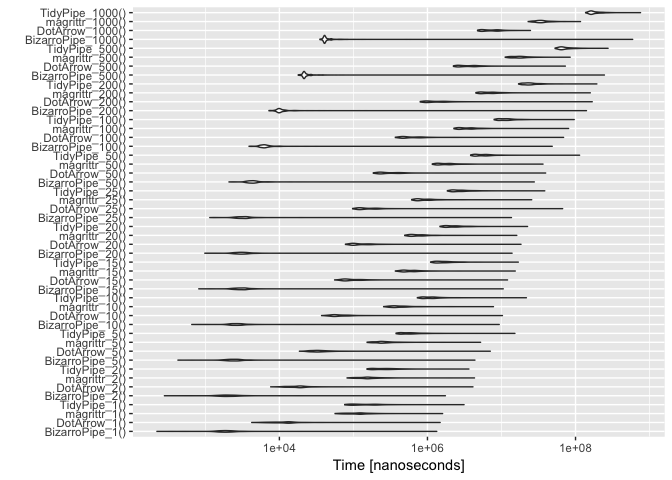
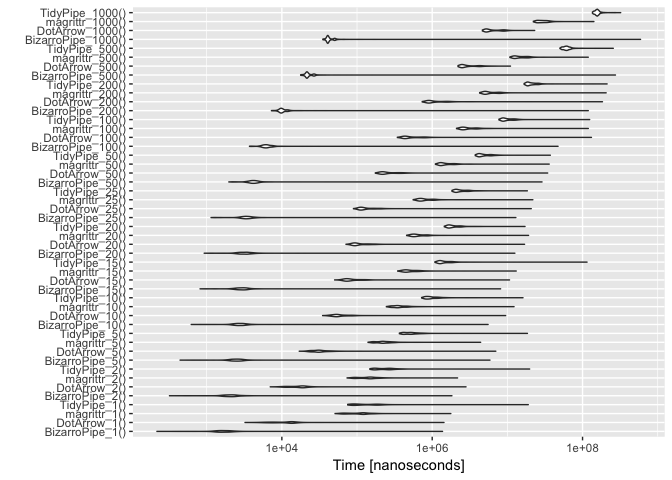
add non-negative regression

diff --git a/extras/PipePerformance.md b/extras/PipePerformance.md
@@ -14,6 +14,16 @@ library("microbenchmark")
 library("wrapr")
 suppressPackageStartupMessages(library("ggplot2"))
 suppressPackageStartupMessages(library("dplyr"))
+library("glmnet")
+```
+
+    ## Loading required package: Matrix
+
+    ## Loading required package: foreach
+
+    ## Loaded glmnet 2.0-10
+
+``` r
 source('rlangPipe.R')
 
 # load generated examples
@@ -139,103 +149,103 @@ print(bm)
 
     ## Unit: nanoseconds
     ##                expr       min          lq         mean      median
-    ##     BizarroPipe_1()       222      1582.0 3.452462e+03      1891.0
-    ##        DotArrow_1()      4235      8492.0 1.407039e+04     12240.5
-    ##        magrittr_1()     56548     86874.5 1.279572e+05    117928.5
-    ##        TidyPipe_1()     76276     98633.5 1.675330e+05    132375.5
-    ##     BizarroPipe_2()       280      1654.5 3.956418e+03      1998.5
-    ##        DotArrow_2()      7636     14224.0 2.357294e+04     18157.5
-    ##        magrittr_2()     82207    125945.5 1.858265e+05    156135.0
-    ##        TidyPipe_2()    152758    191140.5 2.946715e+05    258549.5
-    ##     BizarroPipe_5()       427      2044.5 6.957985e+03      2424.0
-    ##        DotArrow_5()     18651     28462.0 4.666124e+04     33913.0
-    ##        magrittr_5()    153189    209923.0 2.875921e+05    247030.5
-    ##        TidyPipe_5()    376903    452410.0 6.847440e+05    567618.0
-    ##    BizarroPipe_10()       656      2268.5 1.219271e+04      2660.0
-    ##       DotArrow_10()     37175     52872.5 8.188275e+04     61072.0
-    ##       magrittr_10()    256265    337953.0 4.759854e+05    391870.0
-    ##       TidyPipe_10()    731178    902174.0 1.278493e+06   1114632.0
-    ##    BizarroPipe_15()       816      2577.5 1.380794e+04      3054.5
-    ##       DotArrow_15()     55744     75206.0 1.214259e+05     86447.5
-    ##       magrittr_15()    368810    474488.0 6.591939e+05    560907.5
-    ##       TidyPipe_15()   1103447   1348655.0 1.844298e+06   1610747.0
-    ##    BizarroPipe_20()       984      2617.0 1.723997e+04      3080.0
-    ##       DotArrow_20()     78110     97314.0 1.591300e+05    111272.0
-    ##       magrittr_20()    493245    603417.0 8.424960e+05    707362.0
-    ##       TidyPipe_20()   1476766   1804012.0 2.502478e+06   2212604.0
-    ##    BizarroPipe_25()      1148      2748.0 1.710645e+04      3219.0
-    ##       DotArrow_25()     97539    120199.0 3.451899e+05    139810.0
-    ##       magrittr_25()    612587    729494.0 1.018048e+06    849042.0
-    ##       TidyPipe_25()   1860104   2245898.5 3.128991e+06   2691102.0
-    ##    BizarroPipe_50()      2088      3864.0 3.247329e+04      4347.5
-    ##       DotArrow_50()    185787    228443.5 3.833299e+05    269846.0
-    ##       magrittr_50()   1163140   1391384.5 1.979434e+06   1743553.5
-    ##       TidyPipe_50()   3834891   4496058.5 6.145512e+06   5551208.5
-    ##   BizarroPipe_100()      3894      5720.5 5.512375e+04      6289.0
-    ##      DotArrow_100()    368637    464721.5 7.647731e+05    545108.5
-    ##      magrittr_100()   2278879   2716829.5 3.830687e+06   3432310.0
-    ##      TidyPipe_100()   7955880   9568530.0 1.246797e+07  11335954.5
-    ##   BizarroPipe_200()      7228      9556.0 1.518077e+05     10172.5
-    ##      DotArrow_200()    799396    971421.5 1.666996e+06   1219153.0
-    ##      magrittr_200()   4514391   5386501.5 7.505771e+06   6731385.5
-    ##      TidyPipe_200()  17018582  20802727.0 2.604228e+07  23803872.5
-    ##   BizarroPipe_500()     17972     21193.0 2.695247e+05     21877.0
-    ##      DotArrow_500()   2246279   2642707.5 3.930794e+06   3393110.5
-    ##      magrittr_500()  11255617  14287600.0 1.878876e+07  17276868.5
-    ##      TidyPipe_500()  53018221  62306566.5 7.456054e+07  68059408.0
-    ##  BizarroPipe_1000()     35239     40296.0 6.376164e+05     41190.5
-    ##     DotArrow_1000()   4759151   5573930.5 7.693530e+06   7097855.5
-    ##     magrittr_1000()  22968508  30391914.0 3.654468e+07  34176933.5
-    ##     TidyPipe_1000() 136980863 159031345.0 1.872716e+08 170789519.0
+    ##     BizarroPipe_1()       218      1397.0 3.109475e+03      1653.5
+    ##        DotArrow_1()      3238      7599.5 1.274373e+04     12109.5
+    ##        magrittr_1()     51069     76941.5 1.148523e+05    114172.5
+    ##        TidyPipe_1()     75174     91547.5 1.652012e+05    117884.5
+    ##     BizarroPipe_2()       320      1748.5 3.936076e+03      2062.5
+    ##        DotArrow_2()      7009     12872.5 2.009926e+04     17551.5
+    ##        magrittr_2()     73854    106030.0 1.501026e+05    143907.5
+    ##        TidyPipe_2()    148224    176038.0 2.650344e+05    231602.0
+    ##     BizarroPipe_5()       443      2137.0 8.440663e+03      2482.0
+    ##        DotArrow_5()     17042     26224.5 4.039380e+04     30954.5
+    ##        magrittr_5()    140211    186803.5 2.437563e+05    222712.0
+    ##        TidyPipe_5()    366313    429333.5 5.845052e+05    509491.5
+    ##    BizarroPipe_10()       623      2394.0 8.344731e+03      2739.5
+    ##       DotArrow_10()     34869     49264.0 7.343193e+04     55587.5
+    ##       magrittr_10()    245946    310488.0 4.154114e+05    354013.5
+    ##       TidyPipe_10()    723450    838566.5 1.068695e+06    936349.5
+    ##    BizarroPipe_15()       817      2511.5 1.109206e+04      2920.0
+    ##       DotArrow_15()     50378     70260.0 1.014334e+05     78234.5
+    ##       magrittr_15()    347544    433219.5 5.595113e+05    485352.5
+    ##       TidyPipe_15()   1087761   1250994.5 1.702316e+06   1361850.0
+    ##    BizarroPipe_20()       927      2722.5 1.583884e+04      3181.5
+    ##       DotArrow_20()     71378     90644.5 1.304372e+05     98714.0
+    ##       magrittr_20()    457445    551873.0 7.120750e+05    615352.0
+    ##       TidyPipe_20()   1449843   1654513.0 2.054775e+06   1814017.5
+    ##    BizarroPipe_25()      1144      2980.5 1.638177e+04      3370.5
+    ##       DotArrow_25()     89626    109885.0 1.601126e+05    120508.0
+    ##       magrittr_25()    558557    677632.5 8.563041e+05    744380.0
+    ##       TidyPipe_25()   1833798   2060648.5 2.585369e+06   2260987.5
+    ##    BizarroPipe_50()      1973      3760.5 3.314512e+04      4173.5
+    ##       DotArrow_50()    175390    211465.5 3.068196e+05    232438.5
+    ##       magrittr_50()   1104993   1286926.5 1.664156e+06   1410583.5
+    ##       TidyPipe_50()   3742446   4175182.5 5.083042e+06   4598547.0
+    ##   BizarroPipe_100()      3712      5702.5 5.363308e+04      6243.5
+    ##      DotArrow_100()    344215    425149.0 7.031771e+05    468162.5
+    ##      magrittr_100()   2107606   2508324.5 3.325931e+06   2777386.0
+    ##      TidyPipe_100()   7726495   8718501.5 1.088712e+07   9518883.0
+    ##   BizarroPipe_200()      7275      9484.0 1.297401e+05     10017.0
+    ##      DotArrow_200()    736451    885058.0 1.364754e+06    966577.0
+    ##      magrittr_200()   4279834   4977490.0 6.386656e+06   5442331.0
+    ##      TidyPipe_200()  16723246  18520060.5 2.198805e+07  20122123.0
+    ##   BizarroPipe_500()     17810     21170.5 2.972812e+05     21803.0
+    ##      DotArrow_500()   2210000   2462117.0 3.148965e+06   2665635.5
+    ##      magrittr_500()  10810548  12515482.0 1.548989e+07  14198635.0
+    ##      TidyPipe_500()  50019184  56973590.5 6.269668e+07  61106726.5
+    ##  BizarroPipe_1000()     35102     40348.5 6.349440e+05     41203.0
+    ##     DotArrow_1000()   4660448   5210341.0 6.685229e+06   5720847.0
+    ##     magrittr_1000()  22192683  25681100.0 3.088134e+07  29275654.0
+    ##     TidyPipe_1000() 135666126 149513024.0 1.589639e+08 156397013.0
     ##           uq       max neval
-    ##       2286.5   1335223  1000
-    ##      14385.5   1483981  1000
-    ##     142626.5   1601727  1000
-    ##     198904.5   3120480  1000
-    ##       2518.0   1746211  1000
-    ##      21189.5   4114697  1000
-    ##     192439.0   4319166  1000
-    ##     337986.0   3627811  1000
-    ##       2862.0   4375198  1000
-    ##      41358.0   7056578  1000
-    ##     302484.5   5217226  1000
-    ##     709918.5  15174794  1000
-    ##       3125.5   9313475  1000
-    ##      78833.0  10292974  1000
-    ##     502077.5   7785130  1000
-    ##    1330135.0  21690383  1000
-    ##       3548.0  10558228  1000
-    ##     121341.0  12071787  1000
-    ##     704158.0  15340941  1000
-    ##    2001477.5  16865493  1000
-    ##       3620.5  13891002  1000
-    ##     160222.5  18337023  1000
-    ##     892130.0  16085216  1000
-    ##    2721419.5  22493574  1000
-    ##       3721.0  13632091  1000
-    ##     198674.0  66959653  1000
-    ##    1105683.0  25587557  1000
-    ##    3379793.5  38394790  1000
-    ##       4887.5  27723503  1000
-    ##     408221.5  39499899  1000
-    ##    2145652.5  36355000  1000
-    ##    6682996.5 113465897  1000
-    ##       6992.5  48416926  1000
-    ##     794134.5  68960836  1000
-    ##    4171484.5  80601790  1000
-    ##   13348474.0  95914483  1000
-    ##      11302.5 140506945  1000
-    ##    1728131.5 168082935  1000
-    ##    8227618.5 158384845  1000
-    ##   27896518.5 194058884  1000
-    ##      23802.0 245494557  1000
-    ##    4477422.5  72862524  1000
-    ##   20451439.0  84597931  1000
-    ##   80624399.5 275116564  1000
-    ##      45777.0 591202114  1000
-    ##    8997457.0  24598222  1000
-    ##   39256910.5 116671289  1000
-    ##  201818703.0 754698628  1000
+    ##       2005.0   1371813  1000
+    ##      13867.0   1434366  1000
+    ##     129594.0   1768695  1000
+    ##     183349.0  18963935  1000
+    ##       2406.0   1827841  1000
+    ##      19988.5   2816118  1000
+    ##     167296.0   2174940  1000
+    ##     282599.5  19782742  1000
+    ##       2874.5   5863130  1000
+    ##      36396.0   7013798  1000
+    ##     265092.0   4406331  1000
+    ##     610405.0  18482301  1000
+    ##       3143.5   5536736  1000
+    ##      68791.5   9487947  1000
+    ##     431857.0  12257768  1000
+    ##    1134520.0  16129228  1000
+    ##       3345.5   8126805  1000
+    ##      95726.5  10677673  1000
+    ##     608841.5  13105074  1000
+    ##    1706243.0 114707611  1000
+    ##       3678.0  12574343  1000
+    ##     129267.5  16924244  1000
+    ##     770767.0  19133834  1000
+    ##    2249966.0  17156906  1000
+    ##       3809.5  12966902  1000
+    ##     157527.0  20774559  1000
+    ##     959189.5  21815994  1000
+    ##    2868463.0  18438574  1000
+    ##       4627.5  28877616  1000
+    ##     318863.0  34361583  1000
+    ##    1806746.5  35988623  1000
+    ##    5765907.5  37271803  1000
+    ##       6951.0  47196303  1000
+    ##     679238.0 131264362  1000
+    ##    3646445.5 119240549  1000
+    ##   11771859.0 124326385  1000
+    ##      11251.0 119140479  1000
+    ##    1382703.5 183948726  1000
+    ##    7258105.0 205958593  1000
+    ##   23548920.0 212091694  1000
+    ##      24885.0 273875249  1000
+    ##    3785857.0  10995095  1000
+    ##   17776844.5 119153731  1000
+    ##   65611460.5 256307063  1000
+    ##      46789.5 590439319  1000
+    ##    8360729.5  23072622  1000
+    ##   33645249.5 141451526  1000
+    ##  163852591.0 321431153  1000
 
 ``` r
 autoplot(bm)
@@ -283,17 +293,6 @@ ggplot(d, aes(x=size, y=time, color=fn)) +
 ![](PipePerformance_files/figure-markdown_github/replot-2.png)
 
 ``` r
-# verb that adds a name column to a list of dataframes
-add_name_column <- function(dlist, destinationColumn) {
-  res <- dlist
-  for(ni in names(dlist)) {
-    vi <- dlist[[ni]]
-    vi[[destinationColumn]] <- ni
-    res[[ni]] <- vi
-  }
-  res
-}
-
 # fit a linear function for runtime as a function of size
 # per group.
 dfits <- d %.>%
@@ -321,17 +320,59 @@ print(dfits)
 ```
 
     ##         method           coef      Estimate   Std. Error      Pr(>|t|)
-    ## 1  BizarroPipe    (Intercept)   7089.177277 7.002188e+04  9.193598e-01
-    ## 2  BizarroPipe I(size * size)      0.114784 7.598874e-01  8.799357e-01
-    ## 3  BizarroPipe           size    511.683161 7.320178e+02  4.845632e-01
-    ## 4     DotArrow    (Intercept)  16424.650474 2.619331e+04  5.306350e-01
-    ## 5     DotArrow I(size * size)     -0.382053 2.842535e-01  1.789553e-01
-    ## 6     DotArrow           size   8056.229955 2.738283e+02 9.135169e-184
-    ## 7     magrittr    (Intercept)  79298.841997 4.877012e+04  1.039819e-01
-    ## 8     magrittr I(size * size)     -1.535420 5.292602e-01  3.725684e-03
-    ## 9     magrittr           size  38017.042084 5.098491e+02  0.000000e+00
-    ## 10    TidyPipe    (Intercept) 228370.531506 1.821491e+05  2.099551e-01
-    ## 11    TidyPipe I(size * size)     75.015638 1.976708e+00 1.015945e-297
-    ## 12    TidyPipe           size 111948.800704 1.904210e+03  0.000000e+00
+    ## 1  BizarroPipe    (Intercept)  3.515498e+03 7.067359e+04  9.603282e-01
+    ## 2  BizarroPipe I(size * size)  6.754961e-02 7.669598e-01  9.298189e-01
+    ## 3  BizarroPipe           size  5.630833e+02 7.388308e+02  4.459989e-01
+    ## 4     DotArrow    (Intercept)  1.871423e+04 2.565297e+04  4.657007e-01
+    ## 5     DotArrow I(size * size)  4.842801e-01 2.783897e-01  8.195907e-02
+    ## 6     DotArrow           size  6.167833e+03 2.681794e+02 1.408941e-114
+    ## 7     magrittr    (Intercept)  1.070088e+05 4.761332e+04  2.462900e-02
+    ## 8     magrittr I(size * size) -3.441200e-01 5.167066e-01  5.054320e-01
+    ## 9     magrittr           size  3.110195e+04 4.977558e+02  0.000000e+00
+    ## 10    TidyPipe    (Intercept)  2.539726e+05 8.564422e+04  3.028469e-03
+    ## 11    TidyPipe I(size * size)  6.536292e+01 9.294232e-01  0.000000e+00
+    ## 12    TidyPipe           size  9.324256e+04 8.953357e+02  0.000000e+00
+
+``` r
+# re-run with non-negative least squares
+
+dfitsnn <- d %.>%
+  split(., .$fn) %.>%
+  lapply(., 
+         function(di) { 
+           di$sizesq <- (di$size)^2
+           mi <- glmnet(as.matrix(di[, c('size', 'sizesq')]), 
+                        di$time, 
+                        lower.limits = 0, 
+                        alpha=0.1, 
+                        lambda=1.e-5,
+                        intercept = TRUE, 
+                        family = 'gaussian')
+           ctab <- as.data.frame(as.matrix(coefficients(mi)))
+           names(ctab) <- "Estimate"
+           ctab$coef <- rownames(ctab)
+           ctab
+         }) %.>%
+  add_name_column(., 'method') %.>%
+  bind_rows(.) %.>%
+  arrange(., method, coef) %.>%
+  select(.,  method, coef, Estimate)
+
+print(dfitsnn)
+```
+
+    ##         method        coef     Estimate
+    ## 1  BizarroPipe (Intercept) 6.889660e+02
+    ## 2  BizarroPipe        size 6.176928e+02
+    ## 3  BizarroPipe      sizesq 1.281390e-02
+    ## 4     DotArrow (Intercept) 1.671043e+04
+    ## 5     DotArrow        size 6.206547e+03
+    ## 6     DotArrow      sizesq 4.454765e-01
+    ## 7     magrittr (Intercept) 1.210439e+05
+    ## 8     magrittr        size 3.078188e+04
+    ## 9     magrittr      sizesq 0.000000e+00
+    ## 10    TidyPipe (Intercept) 2.232033e+05
+    ## 11    TidyPipe        size 9.383703e+04
+    ## 12    TidyPipe      sizesq 6.476707e+01
 
 A note on the rare very slow events with `Bizarro Pipe`. My *guess* is given `Bizarro Pipe` is the only pipe that gets translated into a multi-line/multi-statement/many-visible-assigments function (i.e., more than one expression) that possibly gives it more changes to win the "garbage collection lottery" and pay for everybody's object clean-up. I don't actually know `R`'s `gc()` trigger strategy, so this is just speculation on my part.
